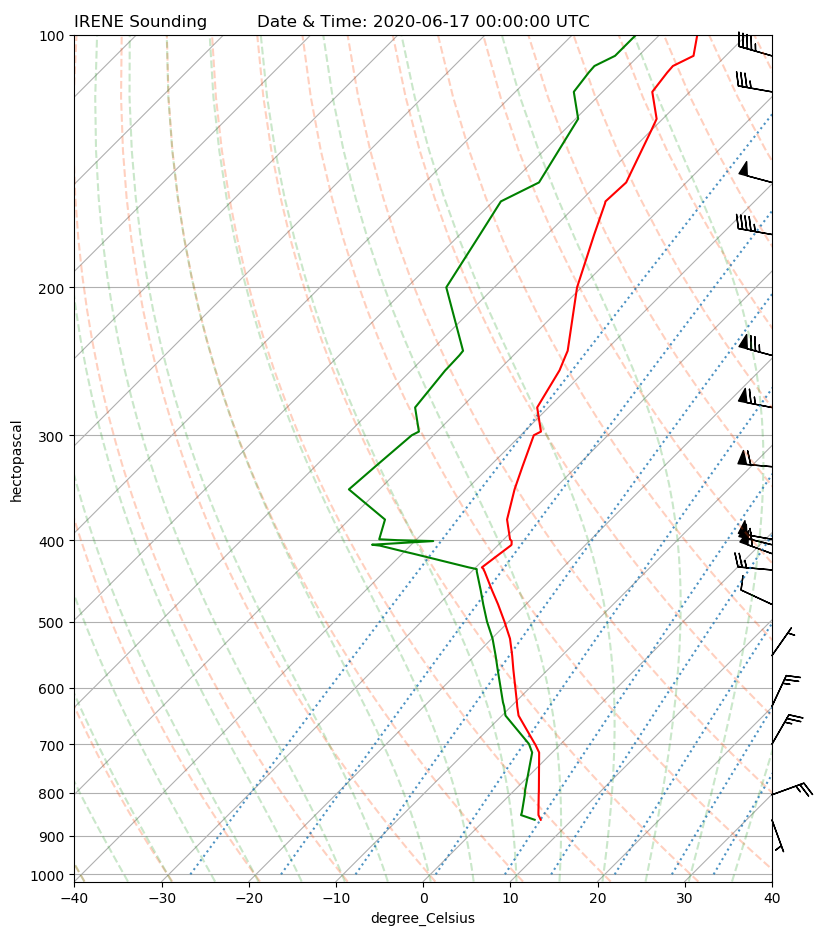
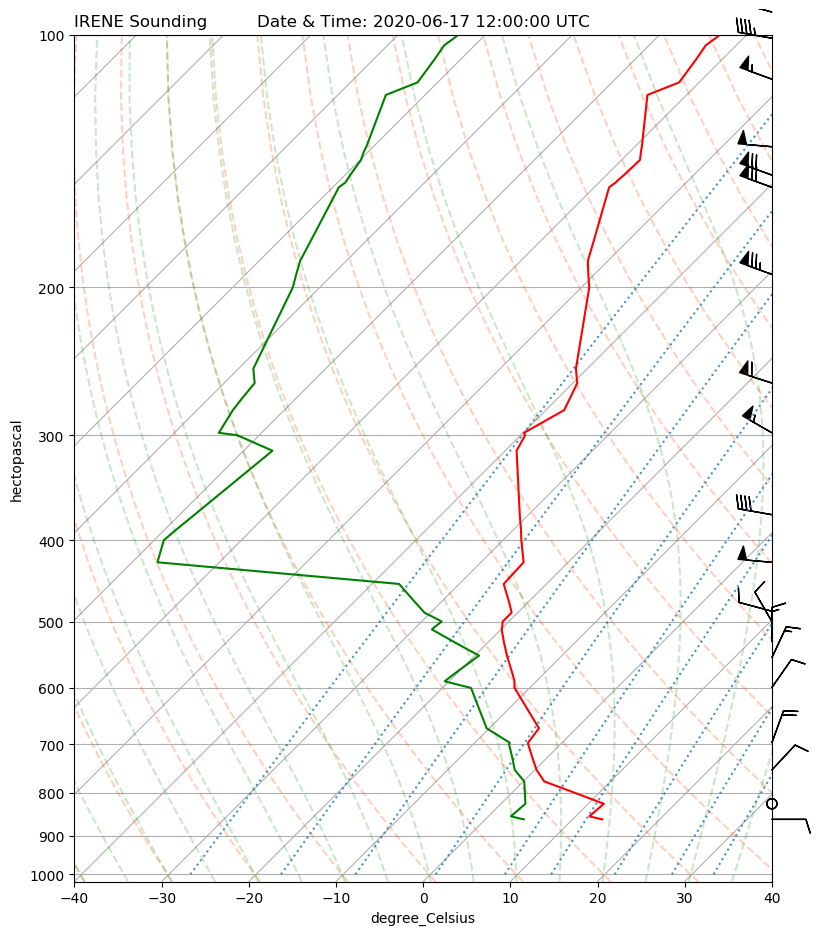
latest Irene sounding

diff --git a/sounding/Irene_real_time_Skew-T_Analysis.py b/sounding/Irene_real_time_Skew-T_Analysis.py
@@ -10,7 +10,7 @@ from siphon.simplewebservice.wyoming import WyomingUpperAir
 # Plan to soft code these variables in future updates, 
 
 # to make it easy to access any station in South Africa for any given time
-dt = datetime(2020, 6, 17, 0)
+dt = datetime(2020, 6, 17, 12)
 station = 'FAIR'
 
 # Grab remote data from server at the University of Wyoming. This requires internet connection.
